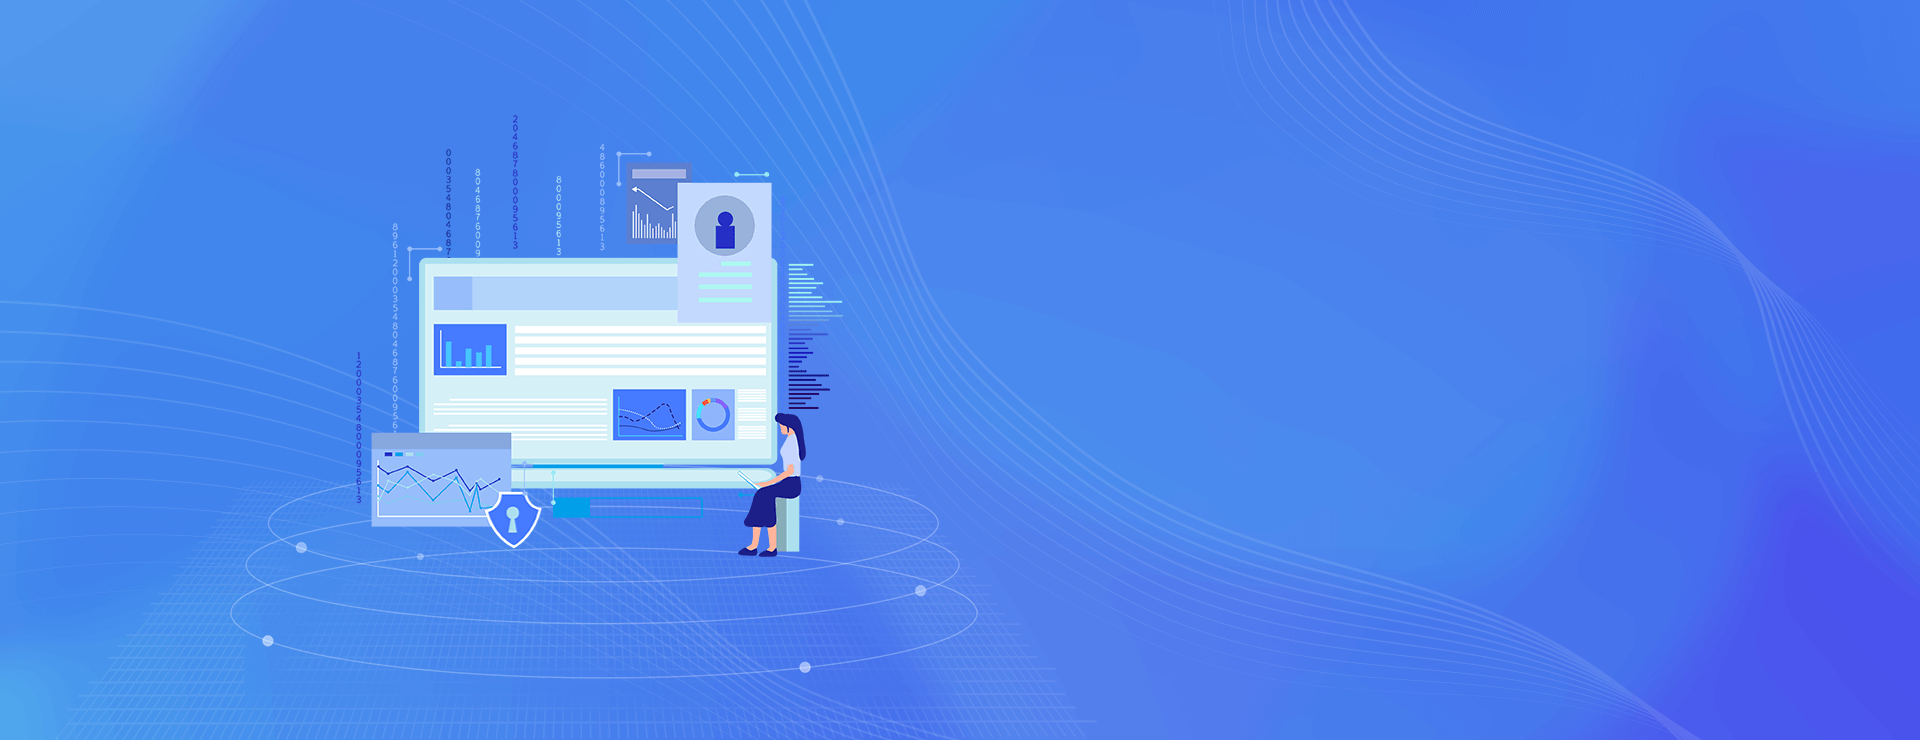
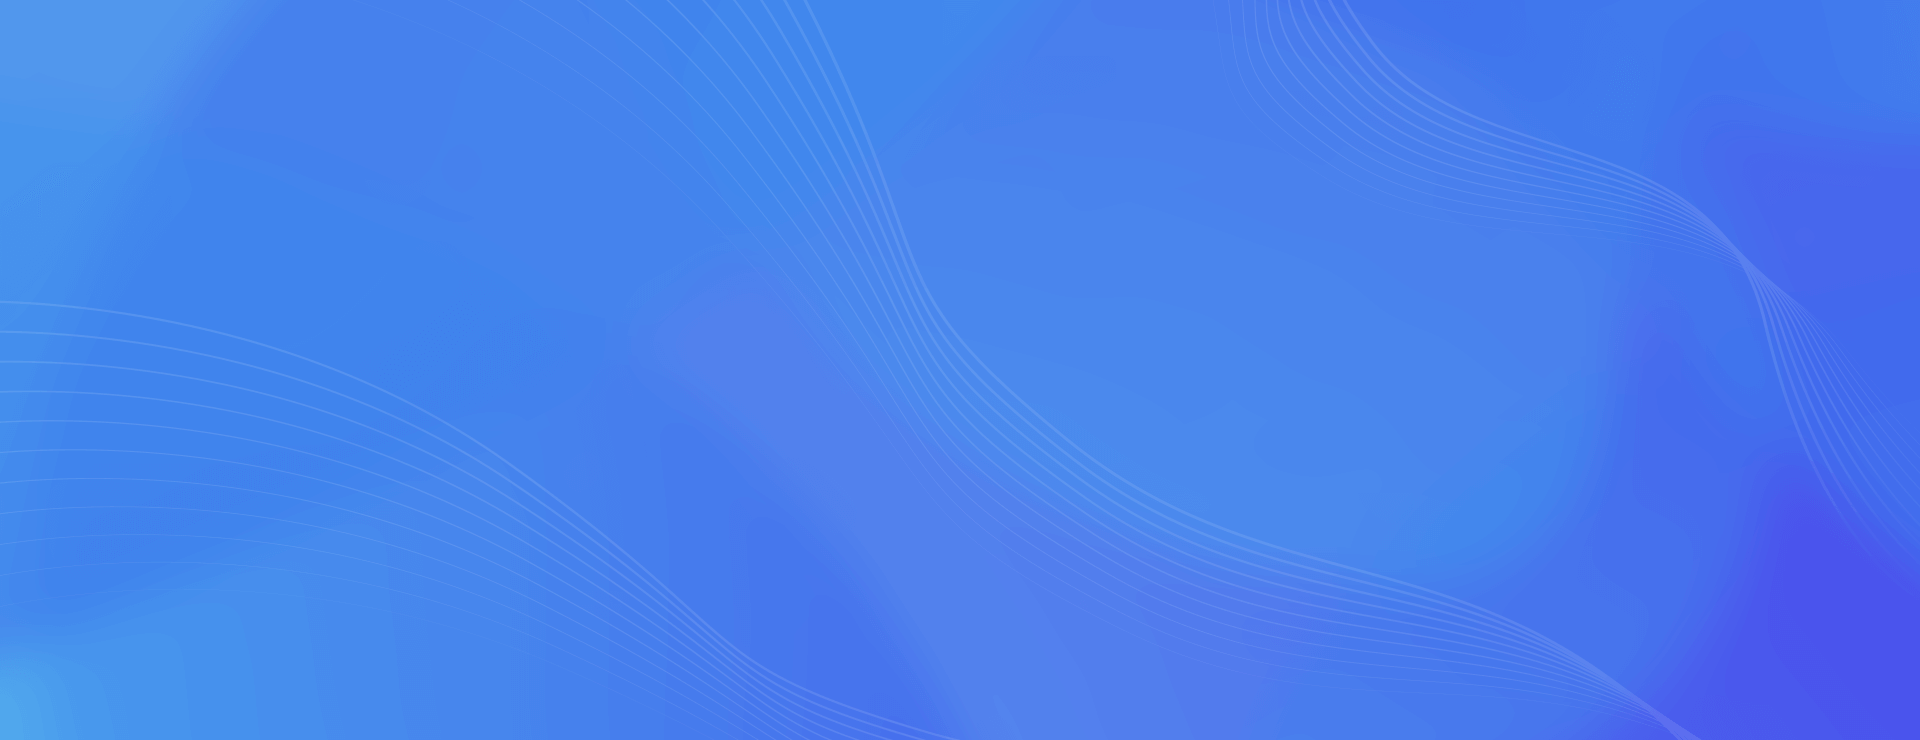
调整登录页背景图片，设置页面最小宽度1300

diff --git a/src/view/sign-in/unified/UnifiedSignIn.vue b/src/view/sign-in/unified/UnifiedSignIn.vue
@@ -1,7 +1,7 @@
 <template>
     <div class="body">
         <div class="header">
-            <img :src="require('./logo.png')" alt="" width="207" height="78" class="logo" />
+            <img :src="require('./logo.png')" alt="" class="logo" />
             <div class="divider"></div>
             <div class="title-wrap">
                 <div class="title">统一身份认证平台</div>
@@ -9,6 +9,7 @@
             </div>
         </div>
         <div class="main">
+            <img :src="require('./makeup.png')" alt="" class="makeup" />
             <div class="login-card">
                 <public-sign-in class="form"></public-sign-in>
             </div>
@@ -34,18 +35,21 @@ export default {
 
 <style lang="less" scoped>
 .body {
+    min-width: 1300px;
     display: flex;
     flex-direction: column;
     height: 100%;
     background-color: #fff;
     .header {
         height: 70px;
-        margin: 50px 0;
+        margin: 20px 0;
         font-size: 24px;
         display: flex;
         align-items: flex-end;
         color: #000;
         .logo {
+            width: 207px;
+            height: 78px;
             margin-left: 55px;
         }
         .divider {
@@ -68,29 +72,30 @@ export default {
     }
     .main {
         flex-grow: 1;
-        min-height: 740px;
+        background: url(./bg.png) no-repeat;
+        background-size: cover;
         background-color: #3e78ed;
         position: relative;
+        display: flex;
+        justify-content: space-between;
+        align-items: center;
+        .makeup {
+            width: 54%;
+            height: 84%;
+        }
         .login-card {
             width: 480px;
             height: 529px;
+            margin: 20px 0;
             padding: 50px;
-            position: absolute;
-            left: auto;
-            right: 160px;
-            top: 50%;
-            transform: translateY(-50%);
-            // display: flex;
-            // flex-direction: column;
-            // justify-content: center; /* 水平居中 */
-            // align-items: center; /* 垂直居中 */
+            margin-right: 100px;
             background-color: #fff;
             border-radius: 10px;
         }
     }
     .footer {
-        height: 170px;
-        line-height: 170px;
+        height: 50px;
+        line-height: 50px;
         text-align: center;
         vertical-align: middle;
         color: #a2a1a1;

diff --git a/src/view/sign-in/unified/PublicSignIn.vue b/src/view/sign-in/unified/PublicSignIn.vue
@@ -8,7 +8,7 @@
                             size="large"
                             v-autofocus
                             v-model.trim="form.accountName"
-                            placeholder="请输入账号"
+                            placeholder="请输入账号/手机号"
                             class="input"
                         >
                             <template #prefix><a-icon type="user"/></template>
